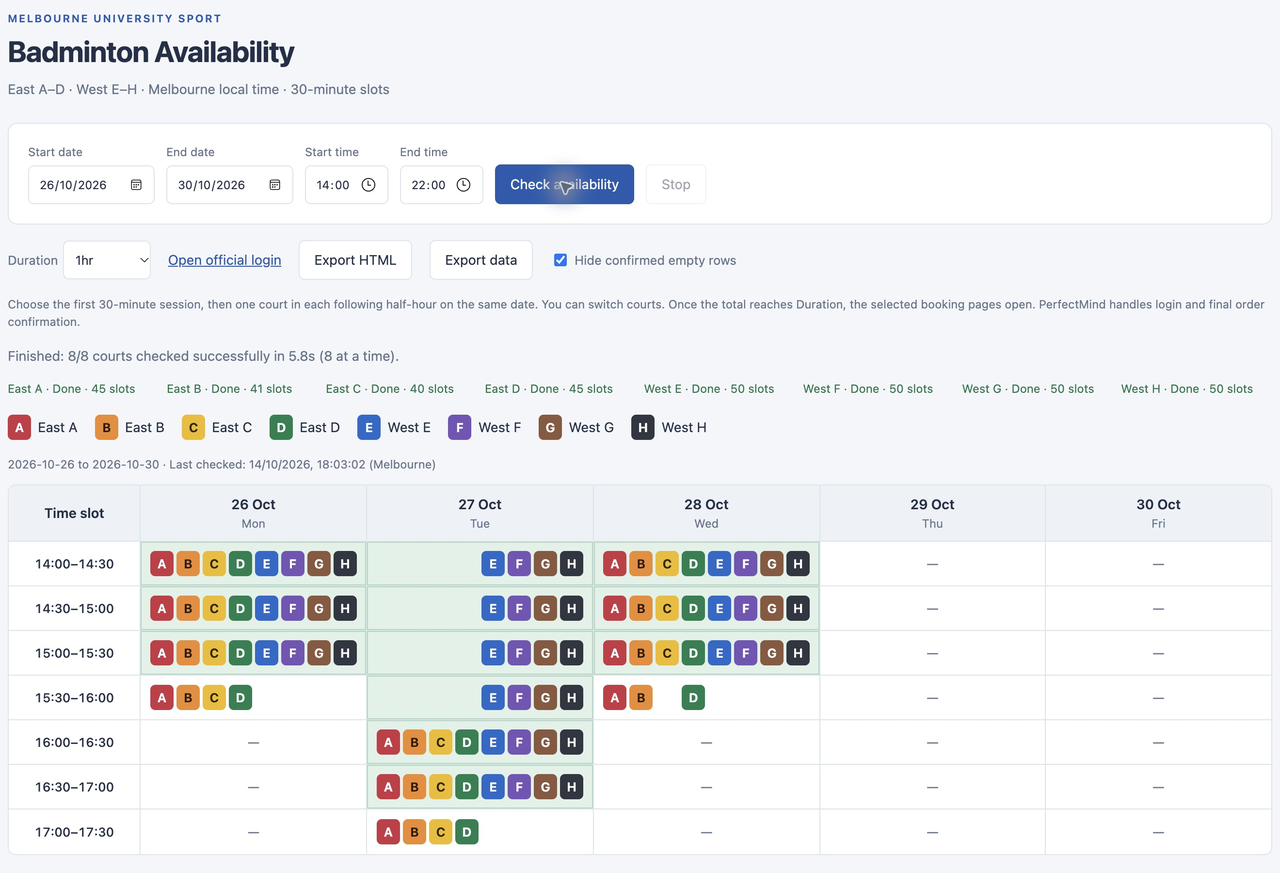
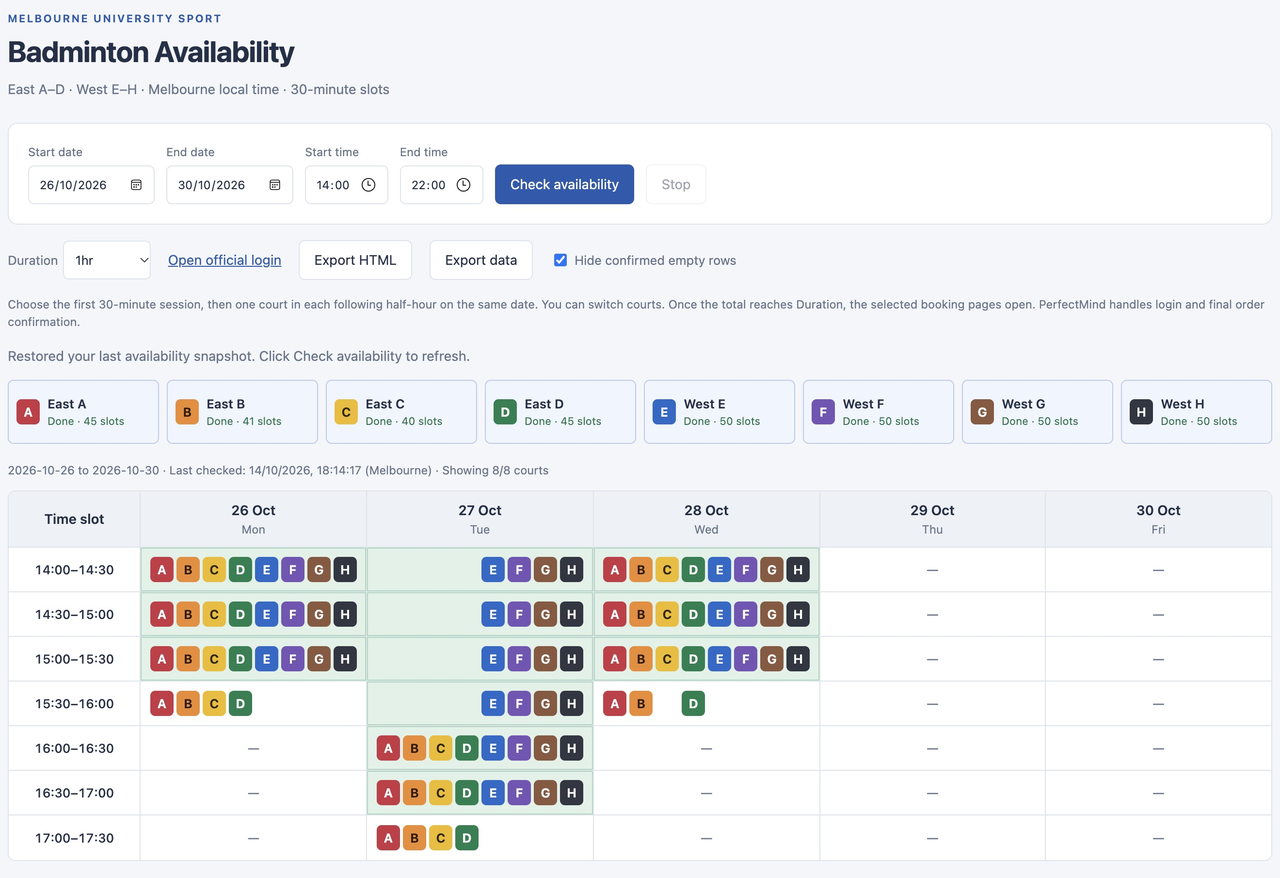
Add court visibility controls with status and expand README screenshots

diff --git a/app.js b/app.js
@@ -9,6 +9,8 @@ const COURTS = [
   {letter:'H',name:'West H',id:'30d9b4e5-7053-4c66-ae12-2ba86a46bad8'}
 ];
 const PARALLEL_COURTS=COURTS.length;
+const shownCourts=new Set(COURTS.map(c=>c.letter));
+const courtStates=new Map();
 const $ = id => document.getElementById(id);
 const extension = Boolean(globalThis.chrome?.runtime?.id && chrome.scripting);
 let snapshot = null, running = false, stopped = false, bookingBusy = false;
@@ -31,7 +33,7 @@ function facilityUrl(court,date) {
   const url=new URL('https://unimelb.perfectmind.com/32617/Clients/BookMe4LandingPages/Facility');
   url.search=new URLSearchParams({facilityId:court.id,widgetId:'15f6af07-39c5-473e-b053-96653f77a406',calendarId:'bce15730-1f38-4e5c-889c-856322a7f877',arrivalDate:melbourneMidnight(date)}).toString();return url.href;
 }
-function badge(c) {return `<span class="court court-${c.letter.toLowerCase()}" title="${c.name}" aria-label="${c.name}">${c.letter}</span>`;}
+function badge(c,decorative=false) {return `<span class="court court-${c.letter.toLowerCase()}" title="${c.name}" ${decorative?'aria-hidden="true"':`aria-label="${c.name}"`}>${c.letter}</span>`;}
 function durationFits(index,coverage,date,start,duration,limit) {
   if(start+duration>limit) return false;
   for(let t=start;t<start+duration;t+=30) {
@@ -40,9 +42,9 @@ function durationFits(index,coverage,date,start,duration,limit) {
   }
   return true;
 }
-function availabilityIndex(data){
+function availabilityIndex(data,visible=shownCourts){
   const index=new Map();
-  for(const s of data.slots){const key=`${s.date}|${s.start}`;if(!index.has(key))index.set(key,new Set());index.get(key).add(s.court);}
+  for(const s of data.slots){if(!visible.has(s.court))continue;const key=`${s.date}|${s.start}`;if(!index.has(key))index.set(key,new Set());index.get(key).add(s.court);}
   return index;
 }
 function buildBookingPlan(slots){
@@ -67,12 +69,40 @@ function slotLink(c,date,time,duration,bookingLinks=true) {
   const classes=`${state.picked?' slot-picked':''}${state.initial?' slot-initial':''}${!state.enabled&&!state.picked?' slot-locked':''}`;
   return `<a class="court court-${c.letter.toLowerCase()} court-link${classes}" href="${escapeHtml(facilityUrl(c,date))}" target="_blank" rel="noopener" data-court="${c.letter}" data-date="${date}" data-start="${time}"${!state.enabled?' aria-disabled="true" tabindex="-1"':''} title="${label}" aria-label="${label}">${c.letter}</a>`;
 }
-function legendHtml() {return COURTS.map(c=>`<li>${badge(c)}<span>${c.name}</span></li>`).join('');}
-function setCourtState(letter,state,text) {const li=$(`progress-${letter}`);li.dataset.state=state;li.textContent=`${COURTS.find(c=>c.letter===letter).name} · ${text}`;}
-function resetProgress(){ $('court-progress').innerHTML=COURTS.map(c=>`<li id="progress-${c.letter}" data-state="pending">${c.name} · Waiting</li>`).join(''); }
-function renderTable(data,hideEmpty=true,duration=60,bookingLinks=true) {
+function legendHtml(courts=COURTS) {return courts.map(c=>`<li>${badge(c)}<span>${c.name}</span></li>`).join('');}
+function courtStatusText(letter){return courtStates.get(letter)?.text||'Waiting';}
+function renderCourtControls(){
+  $('court-progress').innerHTML=COURTS.map(c=>{
+    const shown=shownCourts.has(c.letter),status=courtStates.get(c.letter)||{state:'pending',text:'Waiting'};
+    return `<li><button id="toggle-${c.letter}" class="court-toggle" type="button" data-court="${c.letter}" aria-pressed="${shown}" aria-controls="result" title="${shown?'Hide':'Show'} ${c.name} · ${escapeHtml(status.text)}"${bookingBusy?' disabled':''}>${badge(c,true)}<span class="court-toggle-info"><span class="court-toggle-name">${c.name}${shown?'':'<span class="court-visibility">Hidden</span>'}</span><span id="progress-${c.letter}" class="court-toggle-status" data-state="${status.state}" title="${escapeHtml(status.text)}">${escapeHtml(courtStatusText(c.letter))}</span></span></button></li>`;
+  }).join('');
+}
+function setCourtState(letter,state,text) {
+  courtStates.set(letter,{state,text});const status=$(`progress-${letter}`);
+  status.dataset.state=state;status.textContent=courtStatusText(letter);status.title=text;
+  const court=COURTS.find(c=>c.letter===letter);$(`toggle-${letter}`).title=`${shownCourts.has(letter)?'Hide':'Show'} ${court.name} · ${text}`;
+}
+function resetProgress(){for(const c of COURTS)courtStates.set(c.letter,{state:'pending',text:'Waiting'});renderCourtControls();}
+function restoreProgress(data){
+  const dates=datesBetween(data.query.from,data.query.to);
+  for(const c of COURTS){
+    if(dates.every(d=>data.coverage[c.letter]?.[d]))setCourtState(c.letter,'ok',`Done · ${data.slots.filter(s=>s.court===c.letter).length} slots`);
+    else {const error=data.errors?.find(e=>e.court===c.name);setCourtState(c.letter,error?'error':'pending',error?.message||'Not checked');}
+  }
+}
+function toggleCourt(letter){
+  if(bookingBusy||!COURTS.some(c=>c.letter===letter))return;
+  // Changing the eligible courts clears the previous plan before another
+  // session can be selected or prepared for booking.
+  preserveTimetablePosition(()=>{
+    if(shownCourts.has(letter))shownCourts.delete(letter);else shownCourts.add(letter);
+    selection=null;renderCourtControls();$('legend').innerHTML=legendHtml(COURTS.filter(c=>shownCourts.has(c.letter)));
+  });
+  setNotice();render();$(`toggle-${letter}`).focus?.({preventScroll:true});
+}
+function renderTable(data,hideEmpty=true,duration=60,bookingLinks=true,visible=shownCourts) {
   const dates=datesBetween(data.query.from,data.query.to), start=minutes(data.query.timeFrom),end=minutes(data.query.timeTo);
-  const index=availabilityIndex(data);
+  const index=availabilityIndex(data,visible),courts=COURTS.filter(c=>visible.has(c.letter));
   const week=['Sun','Mon','Tue','Wed','Thu','Fri','Sat'];
   const dateLabel=new Intl.DateTimeFormat('en-AU',{day:'numeric',month:'short',timeZone:'UTC'});
   const headers=dates.map(d=>`<th scope="col">${dateLabel.format(new Date(d+'T12:00:00Z'))}<span class="weekday">${week[new Date(d+'T12:00:00Z').getUTCDay()]}</span></th>`).join('');
@@ -81,9 +111,9 @@ function renderTable(data,hideEmpty=true,duration=60,bookingLinks=true) {
     let availableCount=0,unknownCount=0;
     const cells=dates.map(d=>{
       const available=index.get(`${d}|${t}`)||new Set();
-      const badges=COURTS.filter(c=>available.has(c.letter)).map(c=>slotLink(c,d,t,duration,bookingLinks)).join('');availableCount+=available.size;
+      const badges=courts.filter(c=>available.has(c.letter)).map(c=>slotLink(c,d,t,duration,bookingLinks)).join('');availableCount+=available.size;
       const fits=durationFits(index,data.coverage,d,t,duration,end);
-      const missing=COURTS.filter(c=>!data.coverage[c.letter]?.[d]);unknownCount+=missing.length;
+      const missing=courts.filter(c=>!data.coverage[c.letter]?.[d]);unknownCount+=missing.length;
       const unknown=missing.length?`<span class="unknown" title="${missing.map(c=>c.name).join(', ')} not checked successfully">? ${missing.map(c=>c.letter).join('')}</span>`:'';
       let attrs=fits?` class="duration-match" title="Courts available for ${duration} consecutive minutes from ${timeText(t)}; switching courts is allowed"`:'';
       if(bookingLinks&&selection){
@@ -96,8 +126,9 @@ function renderTable(data,hideEmpty=true,duration=60,bookingLinks=true) {
     if(!hideEmpty||availableCount||unknownCount)rows.push(`<tr><th scope="row">${timeText(t)}–${timeText(t+30)}</th>${cells}</tr>`);
   }
   const captured=new Date(data.updatedAt).toLocaleString('en-AU',{timeZone:'Australia/Melbourne',hour12:false});
-  const incomplete=COURTS.some(c=>dates.some(d=>!data.coverage[c.letter]?.[d]));
-  return `<p class="snapshot">${data.query.from} to ${data.query.to} · Last checked: ${escapeHtml(captured)} (Melbourne)${incomplete?' · Some courts have not been checked successfully':''}</p><div class="table-wrap" role="region" aria-label="Availability timetable; scroll horizontally to view all dates" tabindex="0"><table><thead><tr><th scope="col">Time slot</th>${headers}</tr></thead><tbody>${rows.join('')}</tbody></table></div>`;
+  const incomplete=courts.some(c=>dates.some(d=>!data.coverage[c.letter]?.[d]));
+  const empty=!courts.length?(bookingLinks?'All courts are hidden. Click a court button to show its sessions.':'All courts were hidden when this timetable was exported.'):(bookingLinks?'No visible court sessions in this range. Show more courts or change your filters.':'No sessions for the displayed courts in this range.');
+  return `<p class="snapshot">${data.query.from} to ${data.query.to} · Last checked: ${escapeHtml(captured)} (Melbourne) · Showing ${courts.length}/8 courts${incomplete?' · Some visible courts have not been checked successfully':''}</p><div class="table-wrap" role="region" aria-label="Availability timetable; scroll horizontally to view all dates" tabindex="0"><table><thead><tr><th scope="col">Time slot</th>${headers}</tr></thead><tbody>${courts.length&&rows.length?rows.join(''):`<tr><td class="empty" colspan="${dates.length+1}">${empty}</td></tr>`}</tbody></table></div>`;
 }
 function selectedDuration(){const value=Number($('duration').value);return [30,60,90,120].includes(value)?value:60;}
 function renderSelection(){
@@ -247,19 +278,19 @@ function download(name,text,type){const url=URL.createObjectURL(new Blob([text],
 async function exportHtml(){
   const css=await(await fetch('style.css')).text();
   const duration=selectedDuration();
-  const body=`<main><header><h1>Badminton Availability</h1><p class="sub">University of Melbourne · 30-minute slots · Melbourne local time</p></header><p class="duration-note">Highlighted cells have an available court for every 30-minute slot over the next ${duration} minutes, within the displayed range. Switching courts is allowed. Click a court to open its official timetable. Direct booking-page navigation is available in the extension panel.</p><ul id="legend">${legendHtml()}</ul>${renderTable(snapshot,$('hide-empty').checked,duration,false)}<footer>— = no available courts; ? = not checked successfully. Results are a snapshot; confirm availability on the official website.</footer></main>`;
+  const body=`<main><header><h1>Badminton Availability</h1><p class="sub">University of Melbourne · 30-minute slots · Melbourne local time</p></header><p class="duration-note">Highlighted cells have an available court for every 30-minute slot over the next ${duration} minutes, within the displayed range. Switching courts is allowed. Click a court to open its official timetable. Direct booking-page navigation is available in the extension panel.</p><ul id="legend">${legendHtml(COURTS.filter(c=>shownCourts.has(c.letter)))}</ul>${renderTable(snapshot,$('hide-empty').checked,duration,false)}<footer>— = no available visible courts; ? = not checked successfully. Results are a snapshot; confirm availability on the official website.</footer></main>`;
   download(`badminton-${snapshot.query.from}-${snapshot.query.to}.html`,`<!doctype html><html lang="en-AU"><head><meta charset="utf-8"><meta name="viewport" content="width=device-width,initial-scale=1"><title>Badminton Timetable</title><style>${css}</style></head><body>${body}</body></html>`,'text/html;charset=utf-8');
 }
 async function init(){
   const today=melbourneToday();$('from').value=today;$('to').value=addDays(today,6);$('duration').value='60';$('hide-empty').checked=true;$('legend').innerHTML=legendHtml();resetProgress();
   renderSelection();
-  if(extension){const saved=await chrome.storage.local.get('snapshot');if(saved.snapshot?.version===2){snapshot=saved.snapshot;for(const [id,key] of [['from','from'],['to','to'],['time-from','timeFrom'],['time-to','timeTo']])$(id).value=snapshot.query[key];$('status').textContent='Restored your last availability snapshot. Click Check availability to refresh.';render();}else if(saved.snapshot){await chrome.storage.local.remove('snapshot');$('status').textContent='Cleared an older snapshot that may contain incorrect empty results. Please check availability again.';}}
+  if(extension){const saved=await chrome.storage.local.get('snapshot');if(saved.snapshot?.version===2){snapshot=saved.snapshot;restoreProgress(snapshot);for(const [id,key] of [['from','from'],['to','to'],['time-from','timeFrom'],['time-to','timeTo']])$(id).value=snapshot.query[key];$('status').textContent='Restored your last availability snapshot. Click Check availability to refresh.';render();}else if(saved.snapshot){await chrome.storage.local.remove('snapshot');$('status').textContent='Cleared an older snapshot that may contain incorrect empty results. Please check availability again.';}}
   else{setNotice('This is the local extension panel. Follow the README to load it into Edge, then open it using the extension icon.');}
 }
 async function openSelectedBookings(){
   if(!selection||bookingBusy||selection.opened||selection.slots.length*30!==selection.duration)return;
   const current=selection,plan=buildBookingPlan(current.slots),pending=new Set(),opened=[];
-  bookingBusy=true;current.failure=null;$('start').disabled=true;$('duration').disabled=true;setNotice();render();
+  bookingBusy=true;renderCourtControls();current.failure=null;$('start').disabled=true;$('duration').disabled=true;setNotice();render();
   try{
     const panel=await chrome.tabs.getCurrent();
     if(!Number.isInteger(panel?.windowId))throw new Error('Reopen the extension panel and try again.');
@@ -289,7 +320,7 @@ async function openSelectedBookings(){
     setNotice(`${opened.length?`${opened.length} page(s) opened. `:'No booking pages were opened. '}${current.failure}`);
   }finally{
     await Promise.allSettled(Array.from(pending,id=>chrome.tabs.remove(id)));
-    bookingBusy=false;$('start').disabled=running;$('duration').disabled=false;render();
+    bookingBusy=false;renderCourtControls();$('start').disabled=running;$('duration').disabled=false;render();
     if(opened.length)await chrome.tabs.update(opened[0],{active:true}).catch(()=>{});
   }
 }
@@ -307,6 +338,7 @@ $('undo-selection').addEventListener('click',undoSelection);
 $('reset-selection').addEventListener('click',resetSelection);
 $('retry-booking').addEventListener('click',openSelectedBookings);
 $('result').addEventListener('click',onSlotClick);
+$('court-progress').addEventListener('click',event=>{const button=event.target.closest('button.court-toggle');if(button)toggleCourt(button.dataset.court);});
 $('query').addEventListener('submit',start);$('stop').addEventListener('click',requestStop);$('hide-empty').addEventListener('change',render);$('export').addEventListener('click',()=>exportHtml().catch(e=>{$('status').textContent=`Export failed: ${e.message}`;}));$('json').addEventListener('click',()=>download('badminton-availability.json',JSON.stringify(snapshot,null,2),'application/json'));
 window.addEventListener('beforeunload',event=>{if(running||bookingBusy){event.preventDefault();event.returnValue='';}});
 init().catch(e=>{$('status').textContent=`Initialisation failed: ${e.message}`;});

diff --git a/style.css b/style.css
@@ -1,11 +1,12 @@
 :root { color-scheme:light; --bg:#f4f6f9; --paper:#fff; --text:#223048; --muted:#64748b; --line:#dde4ed; --soft:#f8fafc; --accent:#225bb0; }
 * {box-sizing:border-box} body {margin:0;background:var(--bg);color:var(--text);font:14px/1.5 -apple-system,BlinkMacSystemFont,"Segoe UI","PingFang SC",sans-serif} main {max-width:1360px;margin:auto;padding:32px 28px} h1 {margin:3px 0;font-size:30px;letter-spacing:-.025em} .eyebrow {margin:0;color:var(--accent);font-size:11px;letter-spacing:.13em;font-weight:650} .sub {margin:6px 0 24px;color:var(--muted)}
 form {display:flex;gap:12px;align-items:end;flex-wrap:wrap;padding:20px;background:var(--paper);border:1px solid var(--line);border-radius:10px} label {display:flex;flex-direction:column;gap:5px;font-size:12px;color:var(--muted)} input,button {font:inherit} input[type=date],input[type=time] {padding:9px 10px;border:1px solid var(--line);border-radius:6px;color:var(--text);background:var(--paper);min-height:40px} button {padding:9px 15px;background:var(--paper);color:var(--text);border:1px solid var(--line);border-radius:6px;cursor:pointer;min-height:40px} button.primary {background:var(--accent);color:white;border-color:var(--accent)} button:disabled {opacity:.45;cursor:default} a {color:var(--accent)} :focus-visible {outline:2px solid var(--accent);outline-offset:3px}
-.actions {display:flex;align-items:center;gap:18px;flex-wrap:wrap;margin:16px 0} .compact {flex-direction:row;align-items:center;font-size:13px} .notice {background:#fff1d6;color:#704c00;border-radius:6px;padding:12px} #status {color:var(--muted);min-height:21px} #court-progress {list-style:none;margin:0 0 18px;padding:0;display:grid;grid-template-columns:repeat(8,minmax(0,1fr));gap:8px} #court-progress li {font-size:12px;color:var(--muted)} #court-progress li[data-state=error] {color:#ac313a} #court-progress li[data-state=ok] {color:#187449} #legend {display:flex;gap:18px;flex-wrap:wrap;list-style:none;margin:0 0 16px;padding:0} #legend li {display:flex;gap:7px;align-items:center}
+.actions {display:flex;align-items:center;gap:18px;flex-wrap:wrap;margin:16px 0} .compact {flex-direction:row;align-items:center;font-size:13px} .notice {background:#fff1d6;color:#704c00;border-radius:6px;padding:12px} #status {color:var(--muted);min-height:21px} #court-progress {list-style:none;margin:0 0 18px;padding:0;display:grid;grid-template-columns:repeat(8,minmax(0,1fr));gap:8px} #court-progress li {min-width:0} .court-toggle {display:flex;align-items:center;gap:8px;width:100%;height:66px;padding:8px;text-align:left;border-color:#b9cdee;background:#f0f5ff}.court-toggle:hover {border-color:var(--accent)}.court-toggle-info {display:block;min-width:0}.court-toggle-name {display:flex;align-items:baseline;gap:5px;font-size:13px;font-weight:600;white-space:nowrap}.court-visibility {font-size:9px;font-weight:400;color:var(--muted)}.court-toggle-status {display:block;font-size:11px;color:var(--muted);overflow:hidden;text-overflow:ellipsis;white-space:nowrap}.court-toggle-status[data-state=error] {color:#ac313a}.court-toggle-status[data-state=ok] {color:#187449}.court-toggle[aria-pressed=false] {background:#edf0f4;border-color:var(--line)}.court-toggle[aria-pressed=false] .court {filter:grayscale(1);opacity:.4} #legend {display:flex;gap:18px;flex-wrap:wrap;list-style:none;margin:0 0 16px;padding:0} #legend li {display:flex;gap:7px;align-items:center} #legend.print-legend {display:none}
 .court {display:inline-flex;align-items:center;justify-content:center;flex:0 0 24px;width:24px;height:26px;border-radius:5px;color:#fff;font-size:13px;font-weight:650} .court-a {background:#ca3442} .court-b {background:#ef8a2a;color:#301b08} .court-c {background:#f0bb16;color:#302700} .court-d {background:#17804f} .court-e {background:#226acb} .court-f {background:#7655b7} .court-g {background:#8b583f} .court-h {background:#303641}
 .court-link {text-decoration:none;cursor:pointer}.court-link:hover {transform:translateY(-1px)}.court-link:focus-visible {outline:3px solid var(--accent);outline-offset:3px}td.duration-match {background:#dff2e7;box-shadow:inset 0 0 0 1px #a8d7bd}select {font:inherit;min-height:40px;border:1px solid var(--line);border-radius:6px;padding:8px;background:var(--paper);color:var(--text)}.duration-note {color:var(--muted);font-size:12px;margin:0 0 16px}.slots {gap:6px}
 .table-wrap {overflow-x:auto;background:var(--paper);border:1px solid var(--line);border-radius:8px} table {border-collapse:separate;border-spacing:0;width:100%;min-width:900px} th,td {padding:9px 8px;text-align:center;border-right:1px solid var(--line);border-bottom:1px solid var(--line)} tr>:last-child {border-right:0} tbody tr:last-child>* {border-bottom:0} thead th {background:#edf2f8;min-width:128px;font-weight:600} thead th:first-child,tbody th {position:sticky;left:0;z-index:1} thead th:first-child {z-index:2} tbody th {background:var(--paper);white-space:nowrap;font-size:13px;font-weight:500;font-variant-numeric:tabular-nums;min-width:134px} td {min-width:128px;height:46px} .slots {display:flex;justify-content:center;gap:3px;flex-wrap:wrap;min-width:108px} .unknown {color:#956300;font-size:12px;display:inline-block;margin-top:3px} .dash {color:var(--muted)} .weekday {display:block;font-size:12px;font-weight:400;color:var(--muted)} .snapshot {color:var(--muted);font-size:12px;margin:0 0 12px} .empty {padding:50px 12px;text-align:center;color:var(--muted)} footer {color:var(--muted);font-size:12px;margin-top:18px}
 .slots {display:grid;grid-template-columns:repeat(8,24px);gap:3px;justify-content:center;min-width:213px}.slots .court {grid-row:1}.slots .court-a {grid-column:1}.slots .court-b {grid-column:2}.slots .court-c {grid-column:3}.slots .court-d {grid-column:4}.slots .court-e {grid-column:5}.slots .court-f {grid-column:6}.slots .court-g {grid-column:7}.slots .court-h {grid-column:8}.table-wrap td {min-width:229px}.court-link.slot-locked {filter:grayscale(1);opacity:.22;pointer-events:none}.court-link.slot-picked {opacity:1;box-shadow:0 0 0 2px #1f467b;pointer-events:none}.court-link.slot-initial {box-shadow:0 0 0 3px #225bb0}td.selection-initial {background:#e3edff;box-shadow:inset 0 0 0 2px #8bafe3}td.selection-picked {background:#dff2e7}td.selection-next {background:#fff6d7;box-shadow:inset 0 0 0 2px #e4c96b}td.selection-muted {background:#f2f4f7}.selection-panel {margin:14px 0;padding:16px 18px;border:1px solid #b9cdee;border-radius:8px;background:#f0f5ff}.selection-panel[hidden] {display:none}.selection-panel p {margin:5px 0 10px;color:var(--muted);font-size:13px}.selected-sessions,.selection-actions {display:flex;gap:12px;flex-wrap:wrap;align-items:center}.selected-sessions {margin-bottom:12px}.selected-session {display:flex;gap:7px;align-items:center;font-size:13px}
 .checking-loader {display:flex;align-items:center;gap:14px;margin:16px 0;padding:16px 18px;background:#eaf1fc;border:1px solid #b9cdee;border-radius:8px;color:#1e467e}.checking-loader[hidden] {display:none}.checking-loader p {margin:4px 0 0;font-size:13px}.spinner {width:24px;height:24px;flex:0 0 24px;border:3px solid #b9cdee;border-top-color:#225bb0;border-radius:50%;animation:spin .8s linear infinite}@keyframes spin {to {transform:rotate(360deg)}}@media(prefers-reduced-motion:reduce) {.spinner {animation:none}}
 @media(max-width:800px) {main{padding:22px 14px} h1{font-size:25px} #court-progress{grid-template-columns:repeat(4,1fr)} form{padding:14px} .actions{gap:12px} input[type=date]{max-width:165px}}
-@media print {@page{size:A4 landscape;margin:8mm} body{background:#fff;print-color-adjust:exact;-webkit-print-color-adjust:exact} main{max-width:none;padding:0} form,.actions,.notice,.checking-loader,#status,#court-progress,.selection-actions{display:none} table{min-width:0} th,td{padding:5px} .table-wrap{overflow:visible} .table-wrap td{min-width:0} .court{width:20px;flex-basis:20px;height:23px} .slots{min-width:0;grid-template-columns:repeat(8,20px)} tr{break-inside:avoid}}
+@media(max-width:500px) {#court-progress{grid-template-columns:repeat(2,1fr)}}
+@media print {@page{size:A4 landscape;margin:8mm} body{background:#fff;print-color-adjust:exact;-webkit-print-color-adjust:exact} main{max-width:none;padding:0} #legend.print-legend{display:flex} form,.actions,.notice,.checking-loader,#status,#court-progress,.selection-actions{display:none} table{min-width:0} th,td{padding:5px} .table-wrap{overflow:visible} .table-wrap td{min-width:0} .court{width:20px;flex-basis:20px;height:23px} .slots{min-width:0;grid-template-columns:repeat(8,20px)} tr{break-inside:avoid}}

diff --git a/index.html b/index.html
@@ -26,10 +26,10 @@
   <section id="selection-panel" class="selection-panel" aria-live="polite" hidden><strong id="selection-title"></strong><p id="selection-message"></p><div id="selected-sessions" class="selected-sessions"></div><div class="selection-actions"><button id="undo-selection" type="button">Undo last session</button><button id="reset-selection" type="button">Reset selection</button><button id="retry-booking" type="button" hidden>Retry opening booking pages</button></div></section>
   <p id="notice" class="notice" hidden></p>
   <p id="status" role="status" aria-live="polite">Choose your dates to check availability. Sign in on the official website if needed.</p>
-  <ol id="court-progress" aria-label="Court loading status"></ol>
-  <ul id="legend" aria-label="Court colour legend"></ul>
+  <ul id="court-progress" aria-label="Court visibility and loading status"></ul>
+  <ul id="legend" class="print-legend" aria-label="Court colour legend"></ul>
   <section id="result"><p class="empty">Your combined timetable will appear here.</p></section>
-  <footer>— = no available courts; ? = not yet checked or failed. Results are a snapshot. Availability-check tabs close automatically; booking pages stay open for you. You can use other tabs, but keep this panel open while checking or preparing bookings.</footer>
+  <footer>— = no available visible courts; ? = not yet checked or failed. Results are a snapshot. Availability-check tabs close automatically; booking pages stay open for you. You can use other tabs, but keep this panel open while checking or preparing bookings.</footer>
 </main>
 </body>
 </html>

diff --git a/README.md b/README.md
@@ -1,24 +1,28 @@
 # PerfectMind Badminton Timetable
 
-Version: 1.1.1. A personal, local Manifest V3 extension for University of Melbourne badminton courts. No server, Node.js or Python is needed to use it.
+Version: 1.2.0. A personal, local Manifest V3 extension for University of Melbourne badminton courts. No server, Node.js or Python is needed to use it.
 
 ## Feature screenshots
 
-These captures show the extension interface only. Click a feature below to see its screenshot. The main screenshots are from v1.1.1; the InPrivate example records an earlier successful test.
+These captures show the extension interface only. Every feature screenshot is shown below. The overview and court-toggle screenshots are from v1.2.0; the other main screenshots are from v1.1.1; the InPrivate example records an earlier successful test.
 
 ![English interface, date and time filters, all eight court colours, default one-hour highlights and hidden empty rows](docs/images/overview.png)
 
-<details>
-<summary>Date/time filters, English interface, court colours and vertical alignment</summary>
+### Court visibility buttons and combined loading status
+
+Each button combines a court’s colour, name and loading status. Click it to hide or show that court; all eight are visible by default whenever the panel opens. Hidden buttons stay available so you can show the court again, and their loading status remains readable. Highlights and session selection use only visible courts. Changing visibility clears the current selection. All eight courts still load in the background.
+
+This example hides West E and West F, leaving their lanes blank and six courts visible:
+
+![Court colour, name and status toggle buttons, with West E and West F hidden](docs/images/court-toggles.png)
+
+### Date/time filters, English interface, court colours and vertical alignment
 
 Choose a date interval and time range; the initial start time is 14:00. Each 30-minute row combines all eight courts. Fixed A–H lanes leave gaps for unavailable courts, keeping the same court vertically aligned. The previous availability query is restored on reopening.
 
 ![Combined timetable with A–H court lanes and Melbourne dates](docs/images/duration-highlighting.png)
 
-</details>
-
-<details>
-<summary>Duration options and whole-cell highlighting</summary>
+### Duration options and whole-cell highlighting
 
 Choose 30min, 1hr, 1hr30min or 2hr; 1hr is the default. Green cells mark start times with an available court in every consecutive half-hour for that duration. The court can change between sessions.
 
@@ -26,28 +30,19 @@ Choose 30min, 1hr, 1hr30min or 2hr; 1hr is the default. Green cells mark start t
 
 ![Whole-cell duration highlights, with gaps in the fixed court lanes](docs/images/duration-highlighting.png)
 
-</details>
-
-<details>
-<summary>Eight background checks, loading warning, progress, Stop and unknown results</summary>
+### Eight background checks, loading warning, progress, Stop and unknown results
 
 All eight courts are checked concurrently in inactive tabs. The spinner and banner explain that multiple tabs will open. Court progress is reported individually. Stop closes the checking tabs and keeps results already retrieved. A question mark means that a court is still unchecked or failed; it is not treated as confirmed empty availability.
 
 ![Loading warning, eight active checks, Stop control and unknown court results](docs/images/background-checking.png)
 
-</details>
-
-<details>
-<summary>Consecutive sessions across courts, with next-session locking</summary>
+### Consecutive sessions across courts, with next-session locking
 
 The first badge selects 30 minutes. It stays highlighted, other sessions turn grey, and only the next consecutive half-hour on the same date remains selectable. This example starts on West E and allows the next session on East A–D.
 
 ![Initial West E session and enabled next half-hour](docs/images/session-selection.png)
 
-</details>
-
-<details>
-<summary>Stable badge position when selection messages appear</summary>
+### Stable badge position when selection messages appear
 
 The grid stays at the same position on screen when selection feedback or warnings appear. Horizontal scrolling is preserved too. These crops use the same screen rectangle before and after clicking West E at 15:00.
 
@@ -59,43 +54,29 @@ After selection:
 
 ![After clicking: the selected West E badge remains at the same screen position](docs/images/stable-after.png)
 
-</details>
-
-<details>
-<summary>Undo and Reset selection</summary>
+### Undo and Reset selection
 
 Undo removes the last selected half-hour; Reset clears the plan. Neither moves the timetable. If rechecking a completed plan fails, Retry opening booking pages is offered so that no order page opens until the entire plan has been verified.
 
 ![Selection total, chosen session, Undo and Reset controls](docs/images/undo-reset.png)
 
-</details>
-
-<details>
-<summary>Complete duration, open booking pages and automatic login handling</summary>
+### Complete duration, open booking pages and automatic login handling
 
 Once the selected sessions reach Duration, the extension rechecks them and opens the required booking pages. Consecutive sessions on the same court are grouped; a court change creates another page. This 1hr example opens two 30-minute pages. PerfectMind prompts for login when needed, and you complete each order yourself.
 
 ![Extension confirms a one-hour plan across West E and East A and two opened booking pages](docs/images/booking-summary.png)
 
-</details>
-
-<details>
-<summary>HTML/data exports and hiding confirmed empty rows</summary>
+### HTML/data exports and hiding confirmed empty rows
 
 Export HTML saves a standalone offline timetable with the current colours, highlights and official timetable links. Export data saves availability and diagnostics as JSON. Hide confirmed empty rows is checked by default; unknown rows stay visible.
 
 ![Export HTML, Export data and the default Hide confirmed empty rows control](docs/images/export-controls.png)
 
-</details>
-
-<details>
-<summary>InPrivate availability checking</summary>
+### InPrivate availability checking
 
 After allowing the extension in InPrivate, its panel opens in that window. This earlier v1.0.5 capture records all eight courts checked successfully while signed out. Later versions add the selection flow and fixed court lanes shown above.
 
 ![Earlier extension-only InPrivate check with all eight courts successfully retrieved](docs/images/inprivate.png)
-
-</details>
 
 ## Install in Edge
 
@@ -136,6 +117,8 @@ The extension uses split mode and opens its panel in the window where you clicke
 
 `—` means no available courts were found after a successful check. `?` means a court has not been checked successfully. Unknown or failed results remain visible when empty rows are hidden. Hiding rows does not join separate periods into a continuous period.
 
+Each court has a button combining its colour, name and latest loading status. Click it to hide or show that court. All eight courts are shown each time the panel opens; visibility changes last until you close the panel. Hidden courts are excluded from the table, duration highlights, unknown indicators and HTML export. All eight courts are still checked in the background; JSON export keeps the full collected data. Changing court visibility clears the selected sessions, and buttons are temporarily disabled while booking pages are being prepared.
+
 Every date column has eight fixed court lanes, A–H. Missing courts leave blank positions so sessions on the same court stay vertically aligned. The timetable keeps its screen position and horizontal scroll when selection feedback, warnings, Undo or Reset change the page above it. Changing Duration clears an unfinished selection. Selection is temporary; exported HTML retains the full availability timetable and official timetable links.
 
 Opening `index.html` directly displays the panel, but checking availability requires opening it from the installed extension.
@@ -163,6 +146,8 @@ Opening `index.html` directly displays the panel, but checking availability requ
 
 ## Versions
 
+- **1.2.0**: combines court colours, names and loading statuses into visibility toggle buttons; defaults to showing all eight courts; filters highlights, selection and HTML exports to visible courts; displays every README screenshot without collapsible sections.
+
 - **1.1.1**: anchors the timetable during selection feedback and notices, preserves horizontal scrolling and keyboard focus, and adds an extension-only screenshot guide to the README.
 
 - **1.1.0**: consecutive 30-minute session selection across courts, initial-session highlighting and next-slot locking, undo/reset/retry, revalidation of the full plan before opening order pages, same-court grouping, vertically aligned A–H lanes, retained-duration normalization and clearer collection errors.
@@ -179,6 +164,6 @@ Installation reference: [Microsoft Edge documentation](https://learn.microsoft.c
 
 ## Developer verification
 
-With Node.js installed, run `node tests/parallel.test.cjs`, `node tests/booking.test.cjs`, `node tests/selection.test.cjs`, `node tests/collector.test.cjs` and `node tests/layout.test.cjs`. Checks cover parallel loading, loading-notice cleanup, slot/date locking, duration totals, cross-court plans, adjacent grouping, revalidation failure cleanup, undo/reset, destination validation, duplicate-page prevention, and stable vertical/horizontal positioning during selection, notices and undo/reset.
+With Node.js installed, run `node tests/parallel.test.cjs`, `node tests/booking.test.cjs`, `node tests/selection.test.cjs`, `node tests/collector.test.cjs`, `node tests/layout.test.cjs` and `node tests/visibility.test.cjs`. Checks cover parallel loading, loading-notice cleanup, slot/date locking, duration totals, cross-court plans, adjacent grouping, revalidation failure cleanup, undo/reset, destination validation, duplicate-page prevention, stable vertical/horizontal positioning during selection, notices and undo/reset, and court filtering of slots, highlights, unknowns and exports.
 
 Live verification in Edge for 26–30 October 2026: all eight courts checked in 5.6 seconds; West E 15:00–15:30 plus East A 15:30–16:00 opened two official 30-minute booking routes, each redirected to PerfectMind login for a signed-out session. No orders were submitted.
